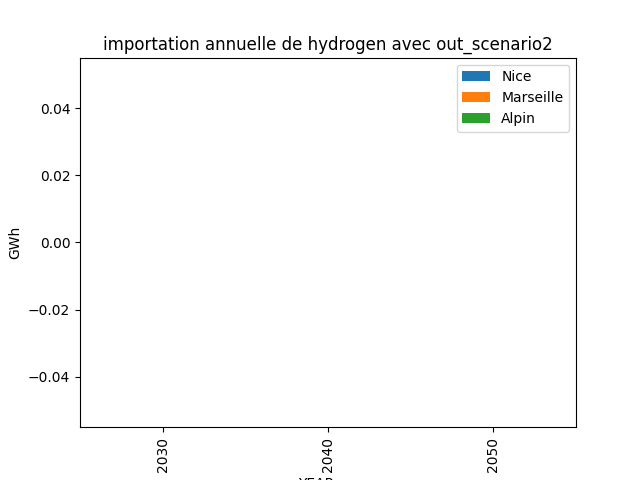
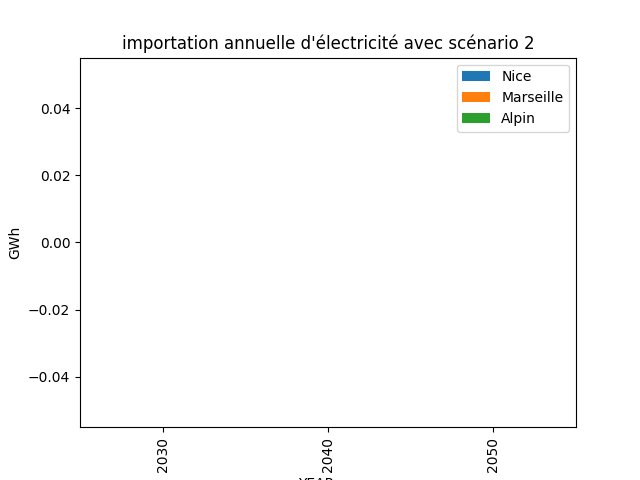
modif tracés graphes

Changed region(s): [[0.1562, 0.0625, 0.875, 0.125]]

diff --git a/plot_results2.py b/plot_results2.py
@@ -13,13 +13,11 @@ vlist = ['capacityInvest_Dvar', 'transInvest_Dvar', 'capacity_Pvar', 'capacityDe
          'Tmaxtot_Pvar']
 
 
-
-
-def show_power_Dvar(outputFolder = 'out_scenario1'):
+def show_power_Dvar(outputFolder='out_scenario1'):
     '''shows the 'power_Dvar' by year and area from all tech'''
 
     res = {v: pd.read_csv(outputFolder + '/' + v +
-                      '.csv').drop(columns='Unnamed: 0') for v in vlist}
+                          '.csv').drop(columns='Unnamed: 0') for v in vlist}
 
     df = res['power_Dvar'].set_index(
         ['YEAR_op', 'TIMESTAMP', 'TECHNOLOGIES', 'AREA'])
@@ -30,22 +28,23 @@ def show_power_Dvar(outputFolder = 'out_scenario1'):
 
     dic = {}
     for ville in areaList:
-            dic[ville] = df_year_area.loc[(slice(None), ville), :]
-            df_year[ville] = pd.DataFrame(dic[ville].values, index=dic[ville].index.droplevel(
-                1), columns=['power_Dvar'])['power_Dvar']
+        dic[ville] = df_year_area.loc[(slice(None), ville), :]
+        df_year[ville] = pd.DataFrame(dic[ville].values, index=dic[ville].index.droplevel(
+            1), columns=['power_Dvar'])['power_Dvar']
 
     df_year /= 1e3
     df_year.plot(kind='bar')
     plt.ylabel('GWh')
     plt.legend()
-    plt.title(f'énergie annuelle de fonctionnement des technologies avec {outputFolder}')
+    plt.title(
+        f'énergie annuelle de fonctionnement des technologies avec scénario {outputFolder[-1]}')
     plt.savefig(f'show_power_Dvar_{outputFolder}')
 
 
-def show_import_Dvar(outputFolder = 'out_scenario1'):
+def show_import_Dvar(outputFolder='out_scenario1'):
     """shows import by year by ressource by area"""
     res = {v: pd.read_csv(outputFolder + '/' + v +
-                      '.csv').drop(columns='Unnamed: 0') for v in vlist}
+                          '.csv').drop(columns='Unnamed: 0') for v in vlist}
 
     df = res['importation_Dvar'].set_index(
         ['YEAR_op', 'TIMESTAMP', 'RESOURCES', 'AREA'])
@@ -57,9 +56,9 @@ def show_import_Dvar(outputFolder = 'out_scenario1'):
     for variable in ['electricity', 'hydrogen']:
         df3 = df2.loc[(slice(None), variable, slice(None)), :]
         df4 = pd.DataFrame(df3.values,
-                          index=df3.index.droplevel(1),
-                          columns=['importation_Dvar']
-                          )
+                           index=df3.index.droplevel(1),
+                           columns=['importation_Dvar']
+                           )
 
         df_year = pd.DataFrame()
         dic = {}
@@ -74,14 +73,16 @@ def show_import_Dvar(outputFolder = 'out_scenario1'):
         df_year.plot(kind='bar')
         plt.ylabel('GWh')
         plt.legend()
-        plt.title(f'importation annuelle de {variable} avec {outputFolder}')
+        # juste pour présentation
+        plt.title(
+            f'importation annuelle d\'électricité avec scénario {outputFolder[-1]}')
         plt.savefig(f'show_import_Dvar_{variable}_{outputFolder}')
 
 
-def show_storageConsumption_Pvar(outputFolder = 'out_scenario1'):
+def show_storageConsumption_Pvar(outputFolder='out_scenario1'):
     """shows storageConsumption_Pvar by year by ressource by area for all stech"""
     res = {v: pd.read_csv(outputFolder + '/' + v +
-                      '.csv').drop(columns='Unnamed: 0') for v in vlist}
+                          '.csv').drop(columns='Unnamed: 0') for v in vlist}
     df = res['storageConsumption_Pvar'].set_index(
         ['YEAR_op', 'TIMESTAMP', 'STOCK_TECHNO', 'AREA'])
     df.dropna(inplace=True)
@@ -100,18 +101,21 @@ def show_storageConsumption_Pvar(outputFolder = 'out_scenario1'):
     df_year.plot(kind='bar')
     plt.ylabel('GWh')
     plt.legend()
-    plt.title(f'storageConsumption_Pvar_{outputFolder}')
+    plt.title(
+        f'consommation annuelle des installations de stockage avec scénario {outputFolder[-1]}')
     plt.savefig(f'storageConsumption_Pvar_{outputFolder}')
 
 
-def show_Tmax_tot(outputFolder = 'out_scenario1'):
+def show_Tmax_tot(outputFolder='out_scenario1'):
     """show max transport flow by year and ttech from all transport axes"""
     res = {v: pd.read_csv(outputFolder + '/' + v +
-                      '.csv').drop(columns='Unnamed: 0') for v in vlist}
-    df = res['Tmaxtot_Pvar'].set_index(['YEAR_invest', 'TRANS_TECHNO', 'AREA','AREA.1'])
+                          '.csv').drop(columns='Unnamed: 0') for v in vlist}
+    df = res['Tmaxtot_Pvar'].set_index(
+        ['YEAR_invest', 'TRANS_TECHNO', 'AREA', 'AREA.1'])
     df.dropna(inplace=True)
 
     df_year = df.groupby(['YEAR_invest']).sum()
+    df_year.columns = ['Total']
     df2 = df.groupby(['YEAR_invest', 'TRANS_TECHNO']).sum()
 
     dic = {}
@@ -120,28 +124,33 @@ def show_Tmax_tot(outputFolder = 'out_scenario1'):
         df_year[ttech] = pd.DataFrame(dic[ttech].values, index=dic[ttech].index.droplevel(
             1), columns=['capacityCosts_Pvar'])['capacityCosts_Pvar']
 
+    df_year.columns = ["Total", "Pipeline_S", "Pipeline_M",
+                       "Pipeline_M", "Camion transporteur d'hydrogène"]
     # affichage
     # return df_year
-    # df_year /= 1e3
+
+    df_year /= 2
     df_year.plot(kind='bar')
-    plt.ylabel('MW')
+    plt.ylabel('nombre')
     plt.legend()
-    plt.title(f'puissance maximale annuelle des transports avec {outputFolder}')
+    plt.title(
+        f'nombre annuel de moyens de transport avec scénario {outputFolder[-1]}')
     plt.savefig(f'show_Tmax_tot_Pvar_{outputFolder}')
 
 
-
-def show_capacityCosts(outputFolder = 'out_scenario1'):
+def show_capacityCosts(outputFolder='out_scenario1'):
     """shows capacityCosts_Pvar (capex and opex) by year by ressource by area for all stech"""
     res = {v: pd.read_csv(outputFolder + '/' + v +
-                      '.csv').drop(columns='Unnamed: 0') for v in vlist}
-    df = res['capacityCosts_Pvar'].set_index(['YEAR_op', 'TECHNOLOGIES', 'AREA'])
+                          '.csv').drop(columns='Unnamed: 0') for v in vlist}
+    df = res['capacityCosts_Pvar'].set_index(
+        ['YEAR_op', 'TECHNOLOGIES', 'AREA'])
     df.dropna(inplace=True)
 
-    df_year = df.groupby(['YEAR_op']).sum() #.rename({'capacityCosts_Pvar':'total'})
-    df2 = df.groupby(['YEAR_op', 'AREA']).sum()    
+    # .rename({'capacityCosts_Pvar':'total'})
+    df_year = df.groupby(['YEAR_op']).sum()
+    df_year.columns = ['Total']
+    df2 = df.groupby(['YEAR_op', 'AREA']).sum()
 
-    
     dic = {}
     for ville in areaList:
         dic[ville] = df2.loc[(slice(None), ville), :]
@@ -154,11 +163,13 @@ def show_capacityCosts(outputFolder = 'out_scenario1'):
     df_year.plot(kind='bar')
     plt.ylabel('M€')
     plt.legend()
-    plt.title(f'coût annuel des installations avec {outputFolder}')
+    plt.title(
+        f'coût annuel des installations avec scénario {outputFolder[-1]}')
     plt.savefig(f'show_capacityCosts_Pvar_{outputFolder}')
 
+
 # TRACE GRAPHES
-for i in range(1,3):
+for i in range(1, 3):
     show_power_Dvar(f'out_scenario{i}')
     show_import_Dvar(f'out_scenario{i}')
     show_capacityCosts(f'out_scenario{i}')

diff --git a/scenarios.py b/scenarios.py
@@ -69,11 +69,11 @@ def demande_h_area(scenar, area, k):
         demande_t_an = [100, 248, 239, 236] 
 
     if area == "Nice" :
-        return (0.2 * 33.e3 / 8760) * demande_t_an[k] * np.ones(nHours)  # 20% de la demande à Fos
+        return (0.2 * 33.e3 / 8760) * demande_t_an[k] * np.ones(nHours)  # 20% de la demande
     elif area == "Alpin" : 
-        return (0.1 * 33.e3 / 8760) * demande_t_an[k] * np.ones(nHours)  # 10% de la demande à Fos
+        return (0.1 * 33.e3 / 8760) * demande_t_an[k] * np.ones(nHours)  # 10% de la demande
     else :
-        return (0.7 * 33.e3 / 8760) * demande_t_an[k] * np.ones(nHours)
+        return (0.7 * 33.e3 / 8760) * demande_t_an[k] * np.ones(nHours)  # 70% de la demande
 
 
 def stockage_h_area(area):
